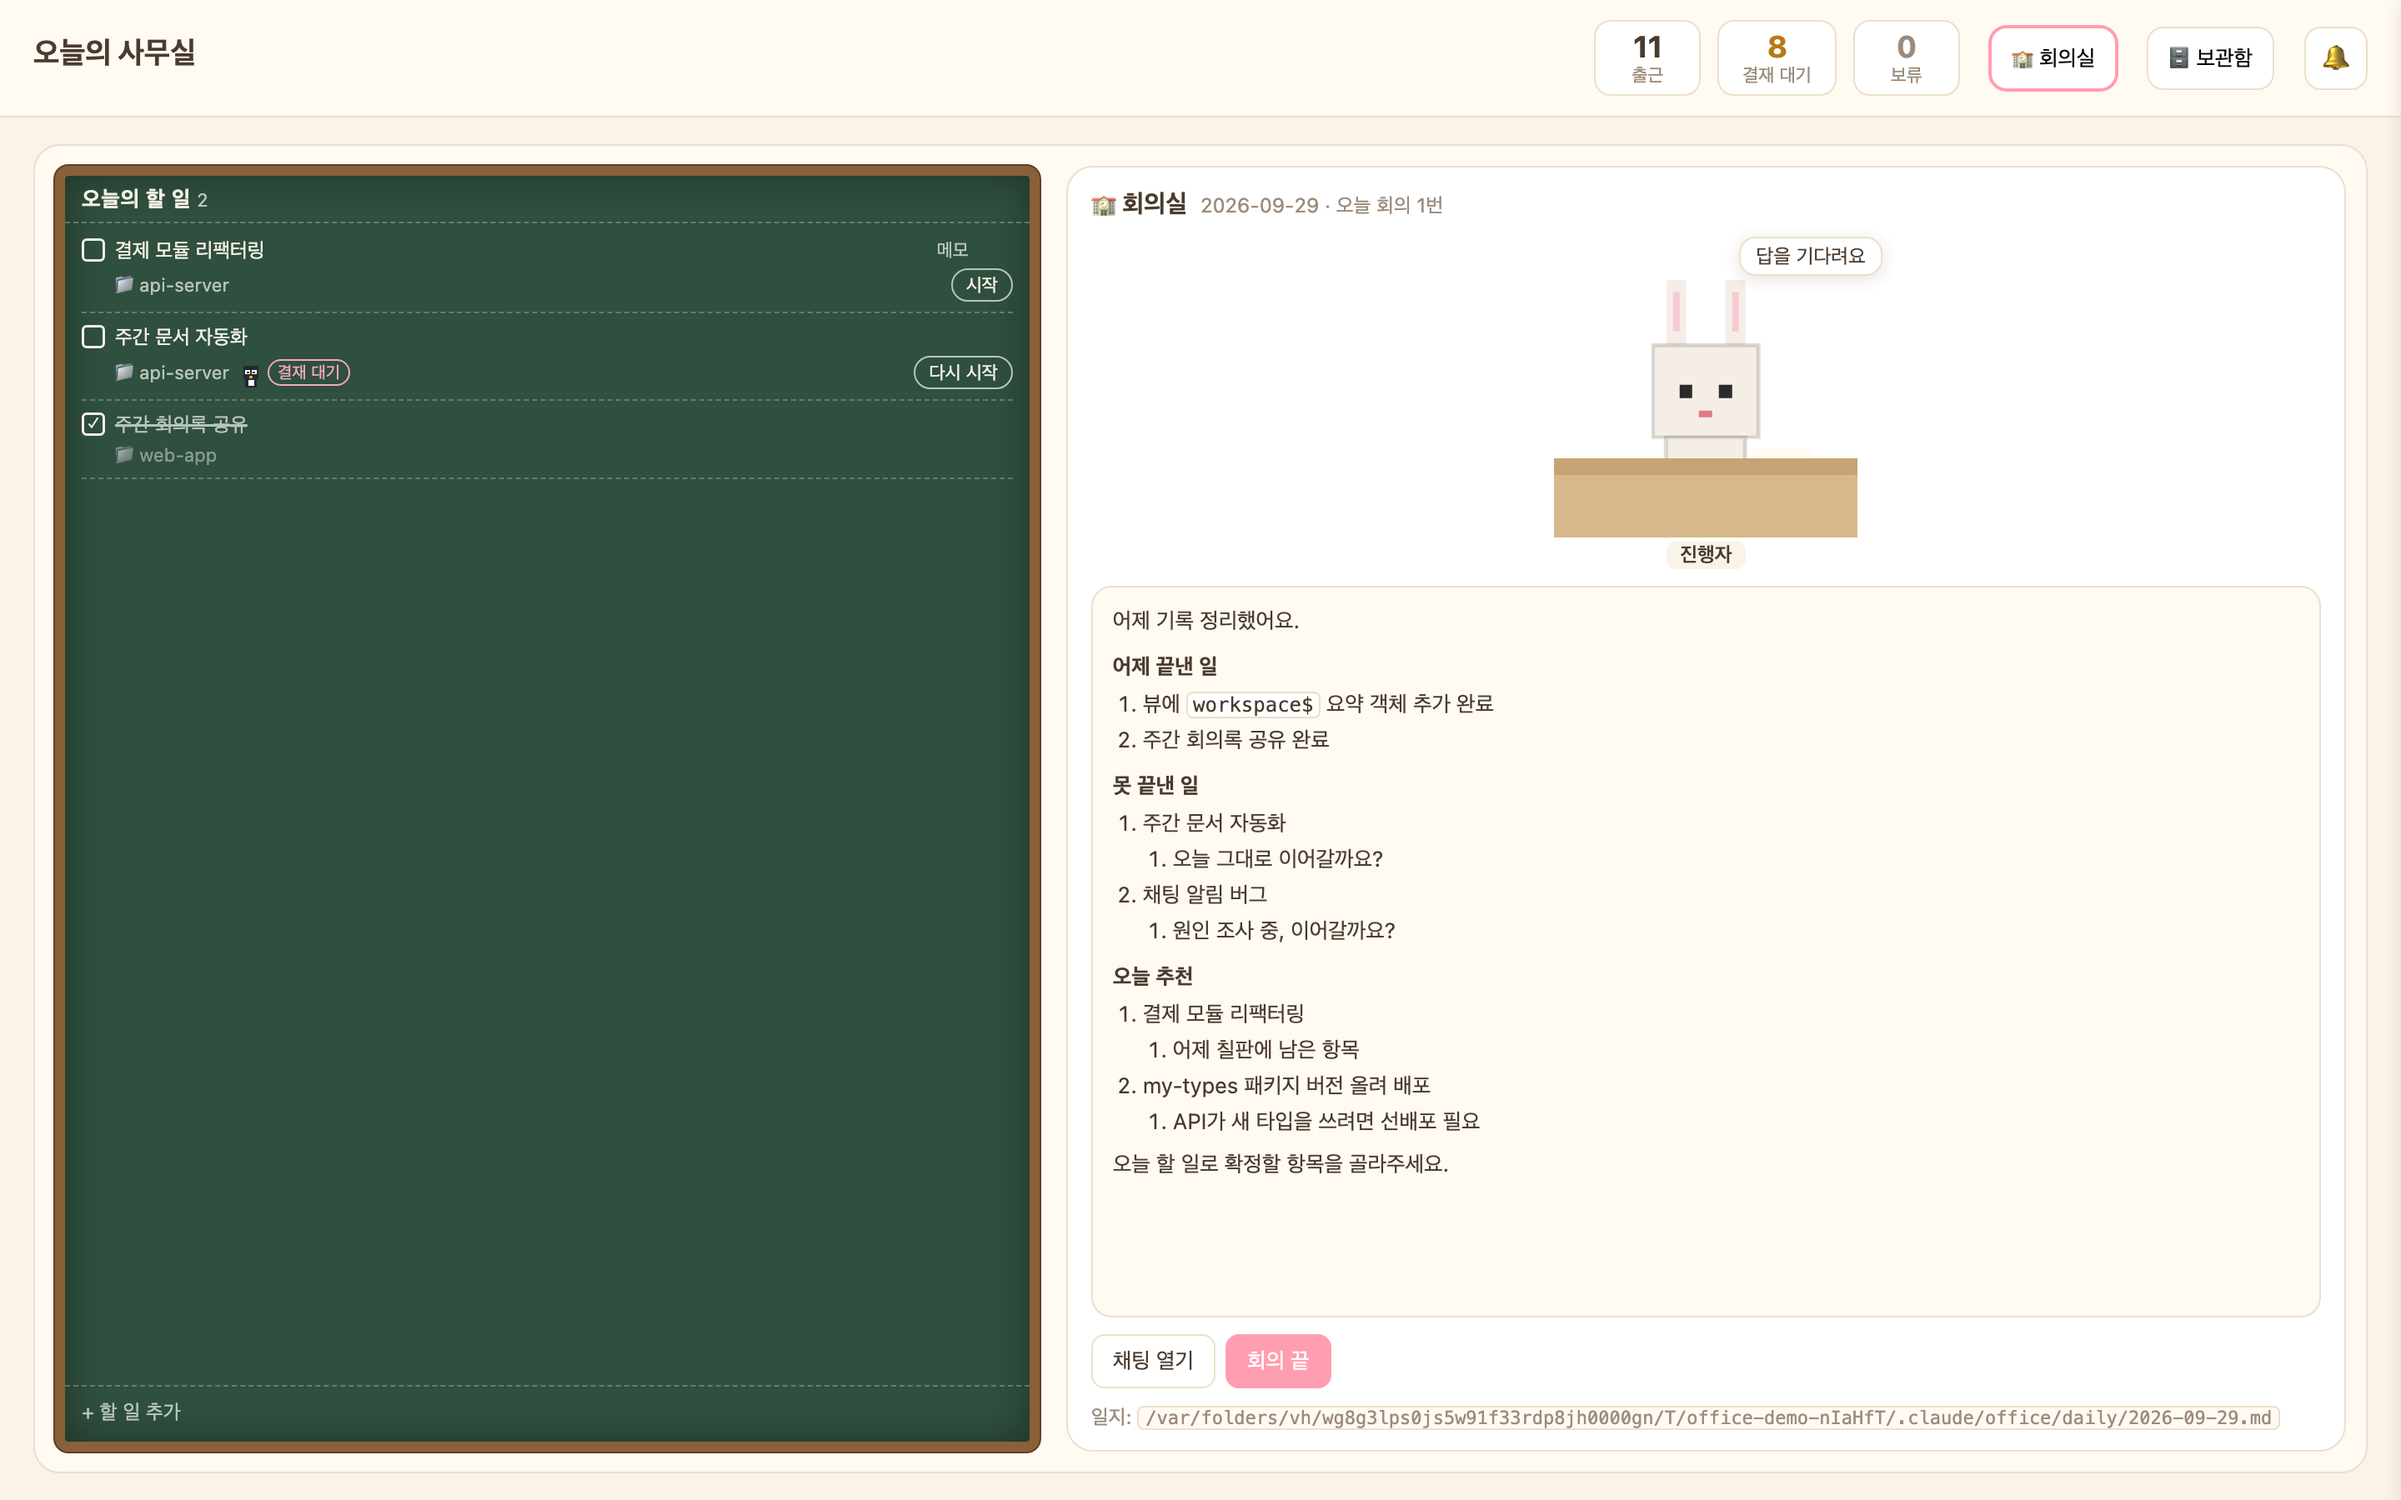
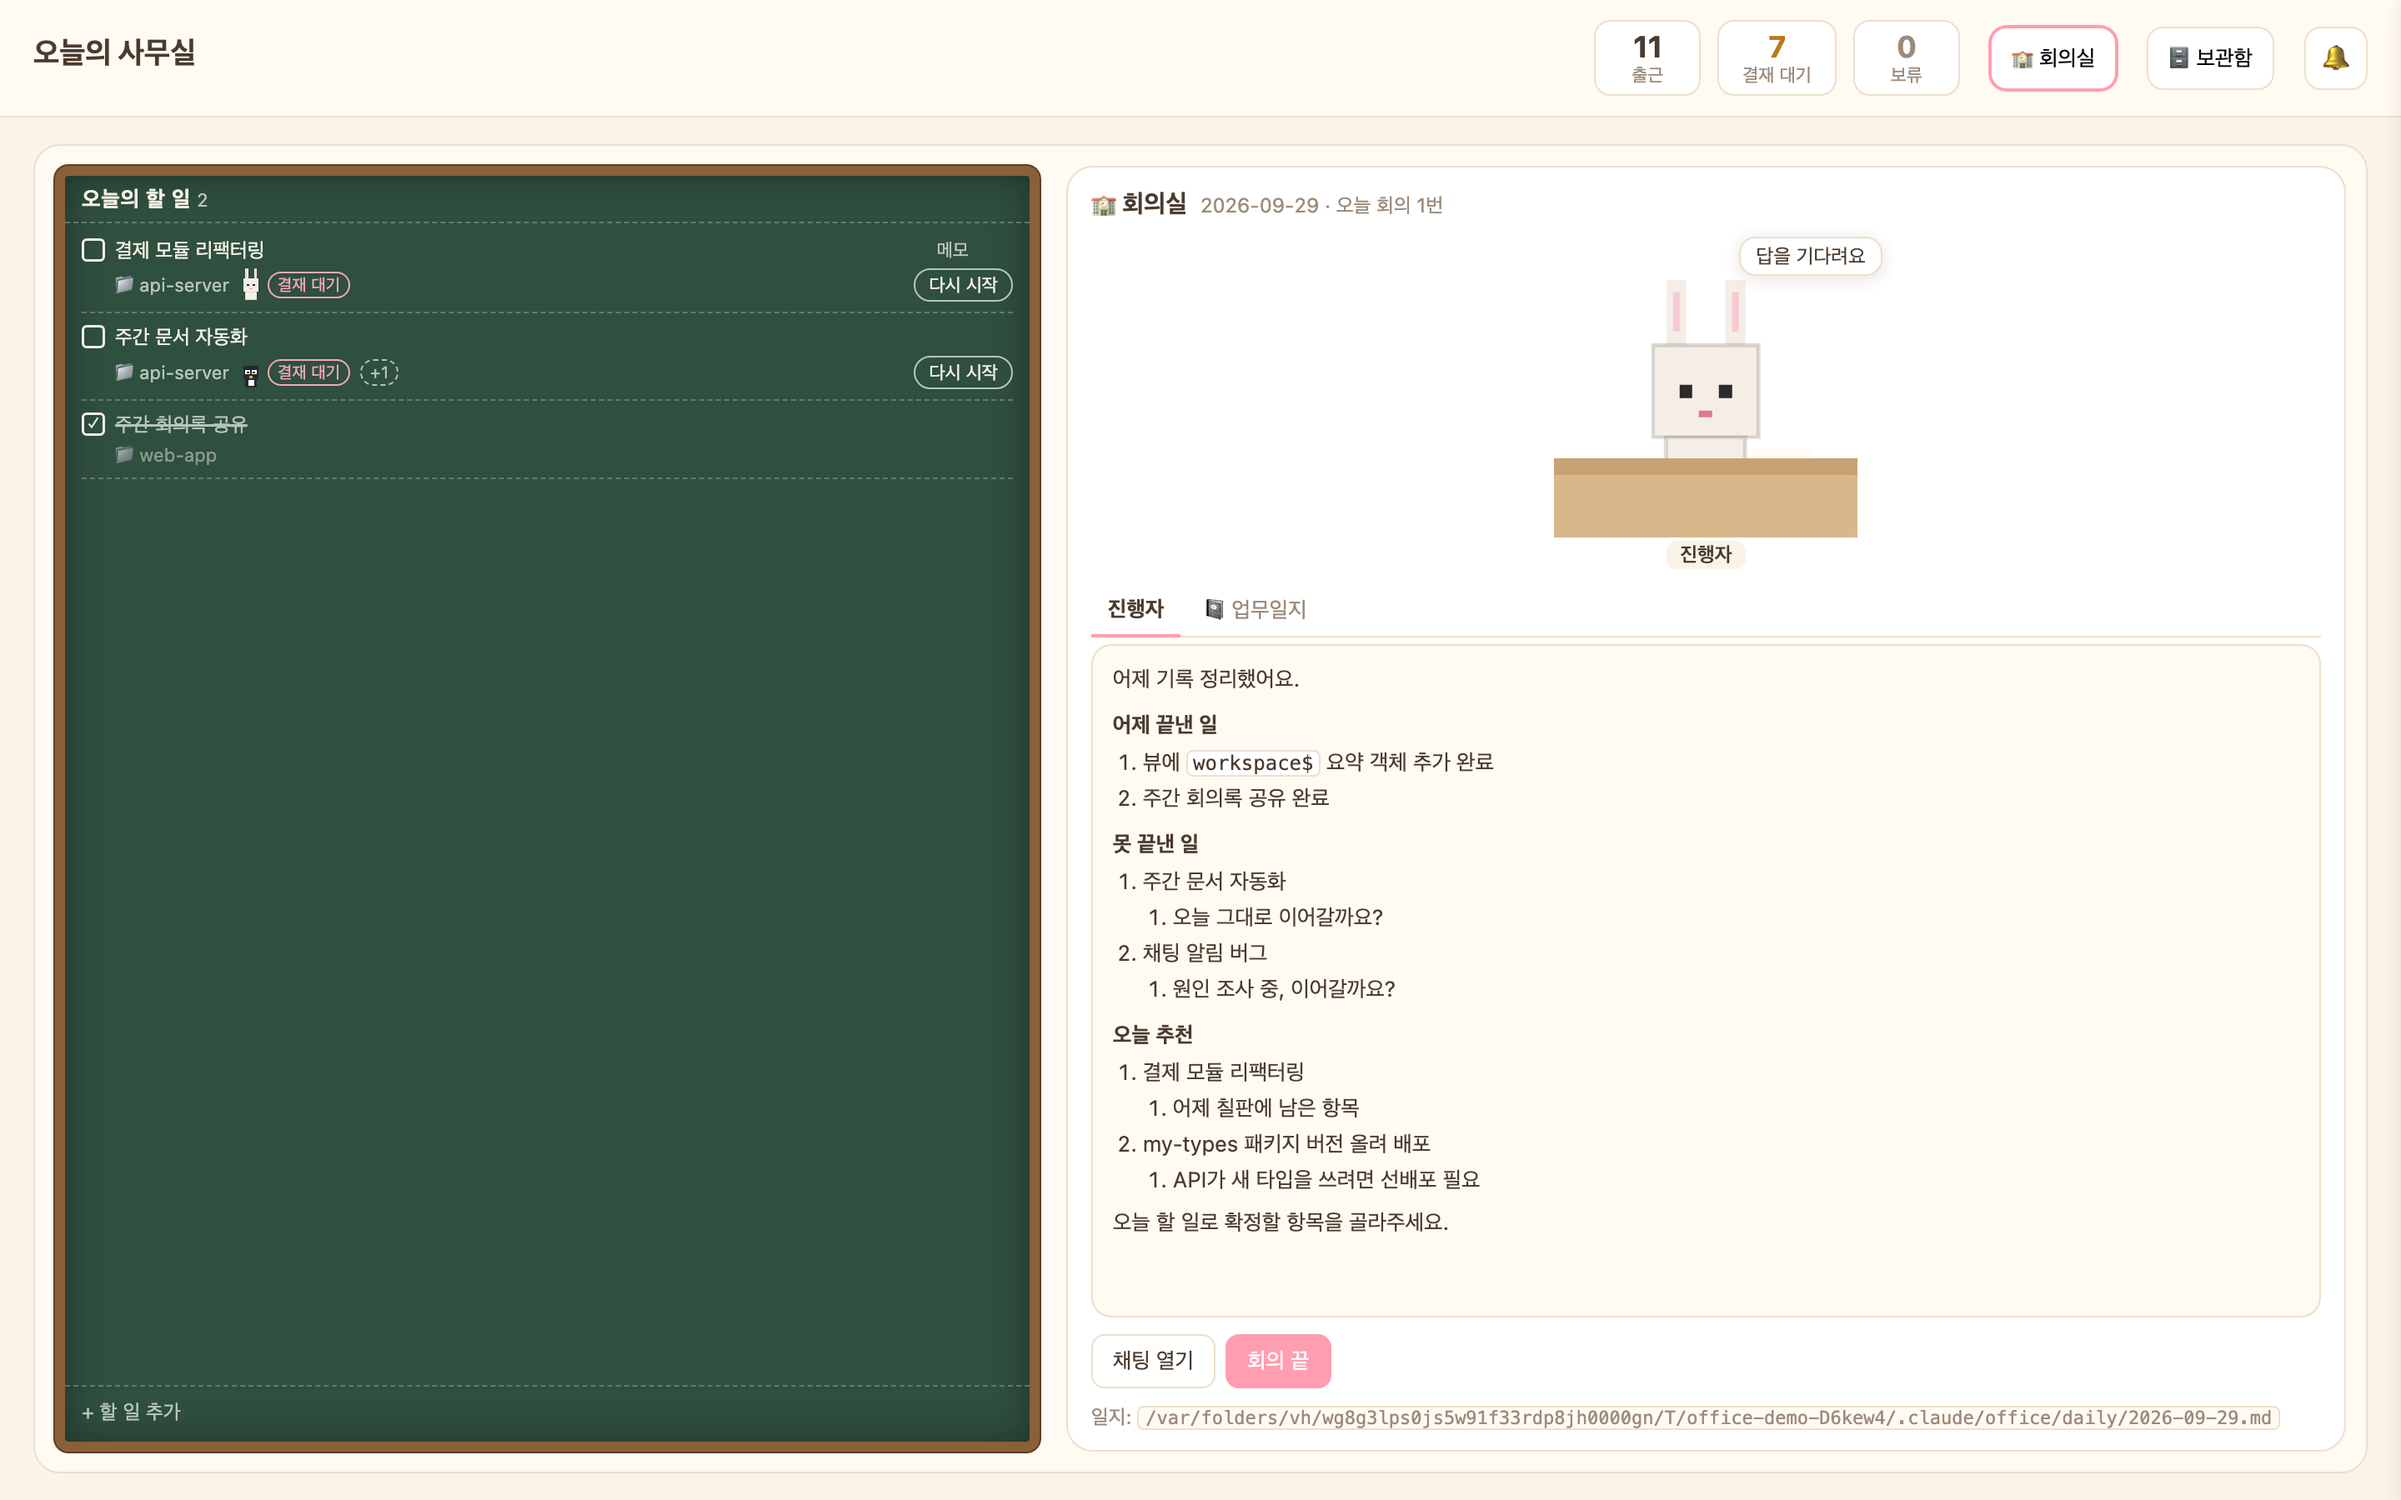
docs: finishing touches in README (ko/en), screenshots, design status

Changed region(s): [[0.4375, 0.3733, 0.625, 0.84], [0.75, 0.9333, 0.7812, 0.9644], [0.0938, 0.1867, 0.125, 0.2178]]

diff --git a/docs/specs/2026-09-29-finishing-touches-design.md b/docs/specs/2026-09-29-finishing-touches-design.md
@@ -1,7 +1,7 @@
 # 설계: 마무리 (업무일지 버튼 · 프롬프트 다듬기 · 세션 배정)
 
 - 작성일: 2026-09-29
-- 상태: 설계 (구현 중)
+- 상태: 구현 완료 (2026-09-29, 백엔드 `d4839e9`, 화면 `2ceaa87`)
 - 배경: 1~4조각을 처음 요청과 대조하니 세 가지가 비어 있다.
 
   | 처음 요청 | 지금 | 이 문서 |
@@ -133,3 +133,23 @@
 2. 다듬기 결과는 제안으로만, 적용은 사용자가
 3. 배정 저장은 `todos.json`의 `assigned`, 한 세션 한 할 일, 표식 연결이 우선
 4. 진행자 지침·CLI는 바꾸지 않음(진행자는 세션 id를 모른다)
+
+## 8. 구현하며 달라진 점
+
+1. 서버
+   1. 배정을 옮길 때 쓰기가 두 번이다(이전 할 일에서 먼저 빼고 새 할 일에 넣음). `sources/todos.mjs`가 레코드 하나씩 저장해서다. 중간에 멈춰도 한 세션이 두 할 일에 동시에 들어가지는 않는다.
+   2. 해제는 이 할 일에 실제로 배정돼 있던 세션만 `links.json`에서 지운다(표식 세션 id로 한 no-op 해제가 다른 기록을 지우지 않게).
+   3. 타이머는 `narrateOnTimer`: 도는 중이거나 쓸 때가 아니면 건너뛰고, 아니면 버튼과 같은 잠금 안에서 `narrateNote`. 쓸 때가 아닐 때 `startedAt`이 10분마다 덮이지 않는다.
+   4. 다듬기 결과가 비면 502. 삭제된 할 일은 404(`startTodo`와 같음).
+   5. `meeting.mjs`와 `narrate.mjs`가 서로 import한다(둘 다 함수 안에서만 상대를 써서 ESM에서 안전).
+2. 화면
+   1. 패널 머리의 📋 태그는 뺐다. 바로 아래 새 줄이 같은 할 일과 연결 방식(배정/칠판에서 시작)을 함께 보여준다.
+   2. 진행자 탭 안내는 주 버튼이 [회의 시작]/[회의 다시 시작]일 때만(설계 "[회의 시작] 옆").
+   3. 업무일지 탭의 상태 줄은 본문 아래(메시지 영역 안), 버튼 줄에는 버튼만. 쓰는 중에는 버튼을 비활성화하고 상태 줄이 "쓰는 중"을 보인다.
+   4. 다듬기 제안은 적용 전에 고칠 수 있다. 적용하면 메모가 열린 채로 저장된 내용을 보여준다.
+   5. 패널의 배정 줄은 진행자 세션과, 칠판에 대기·진행 중 항목이 없을 때 숨긴다.
+   6. 드래그 중 "할 일에 배정" 글자는 포인터 아래 항목에만, 나머지 후보는 점선만.
+3. 검증(데모 7770, 실제 API, 가짜 `claude`를 PATH에): 업무일지 [지금 쓰기] → "쓰는 중… (시작 HH:MM)" → 서술 렌더·"HH:MM 작성" / ✨ 다듬기 → 제안·"AI 제안" 표시 → 적용 전 저장 안 됨 → 적용 후 메모 교체 / 결재함 카드를 칠판 항목에 드롭 → 배정·토스트, 표식 세션 드롭 → 409 / 패널 "배정 [해제]" → 해제 → 선택 목록 복귀. 테스트 135개 → 150개, 메트릭 4개 통과.
+4. 남은 것
+   1. 실제 마우스 드래그(합성 이벤트로만 확인), 실제 모델로 다듬기 한 번(서술은 3조각에서 실측 95~137초)
+   2. 메모를 입력하고 곧바로 다듬기를 누르면 저장 요청과 다듬기 요청이 연달아 나가 서버가 이전 메모를 읽을 수 있다(드묾)
